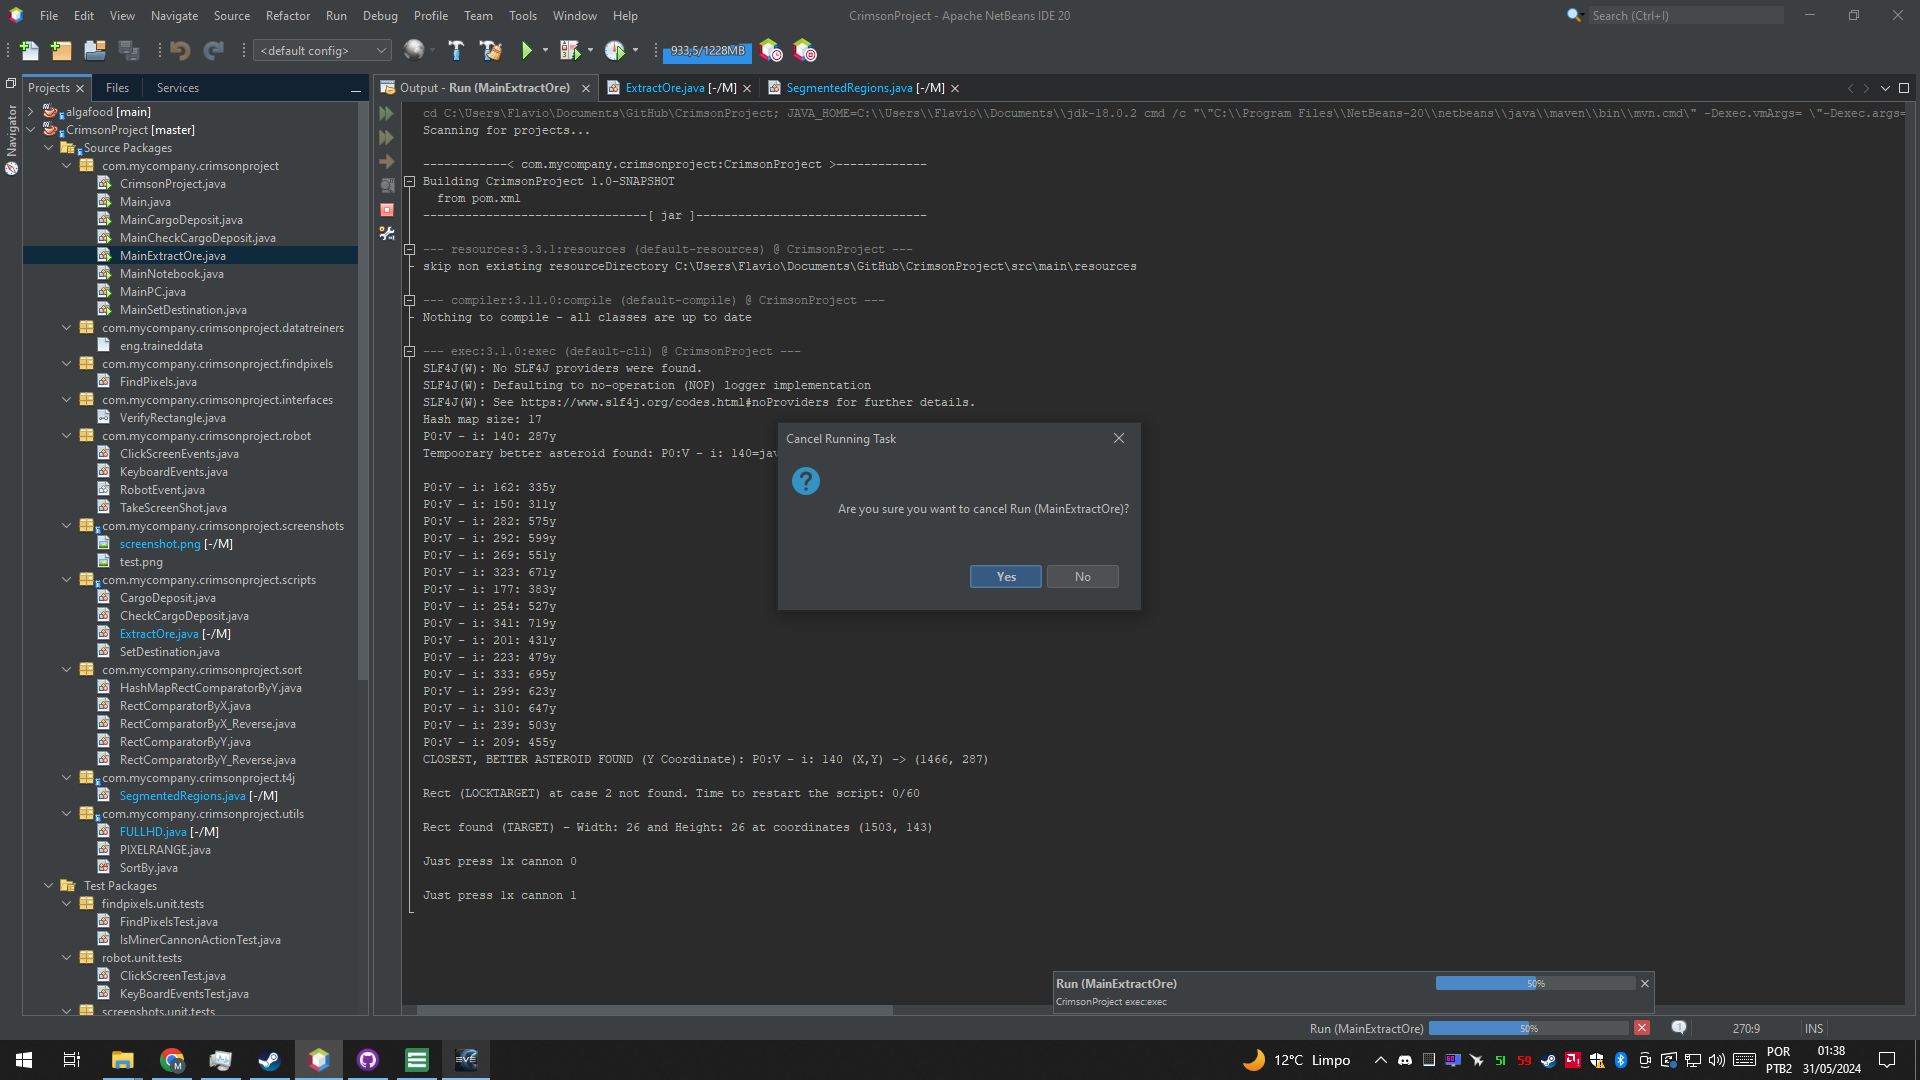
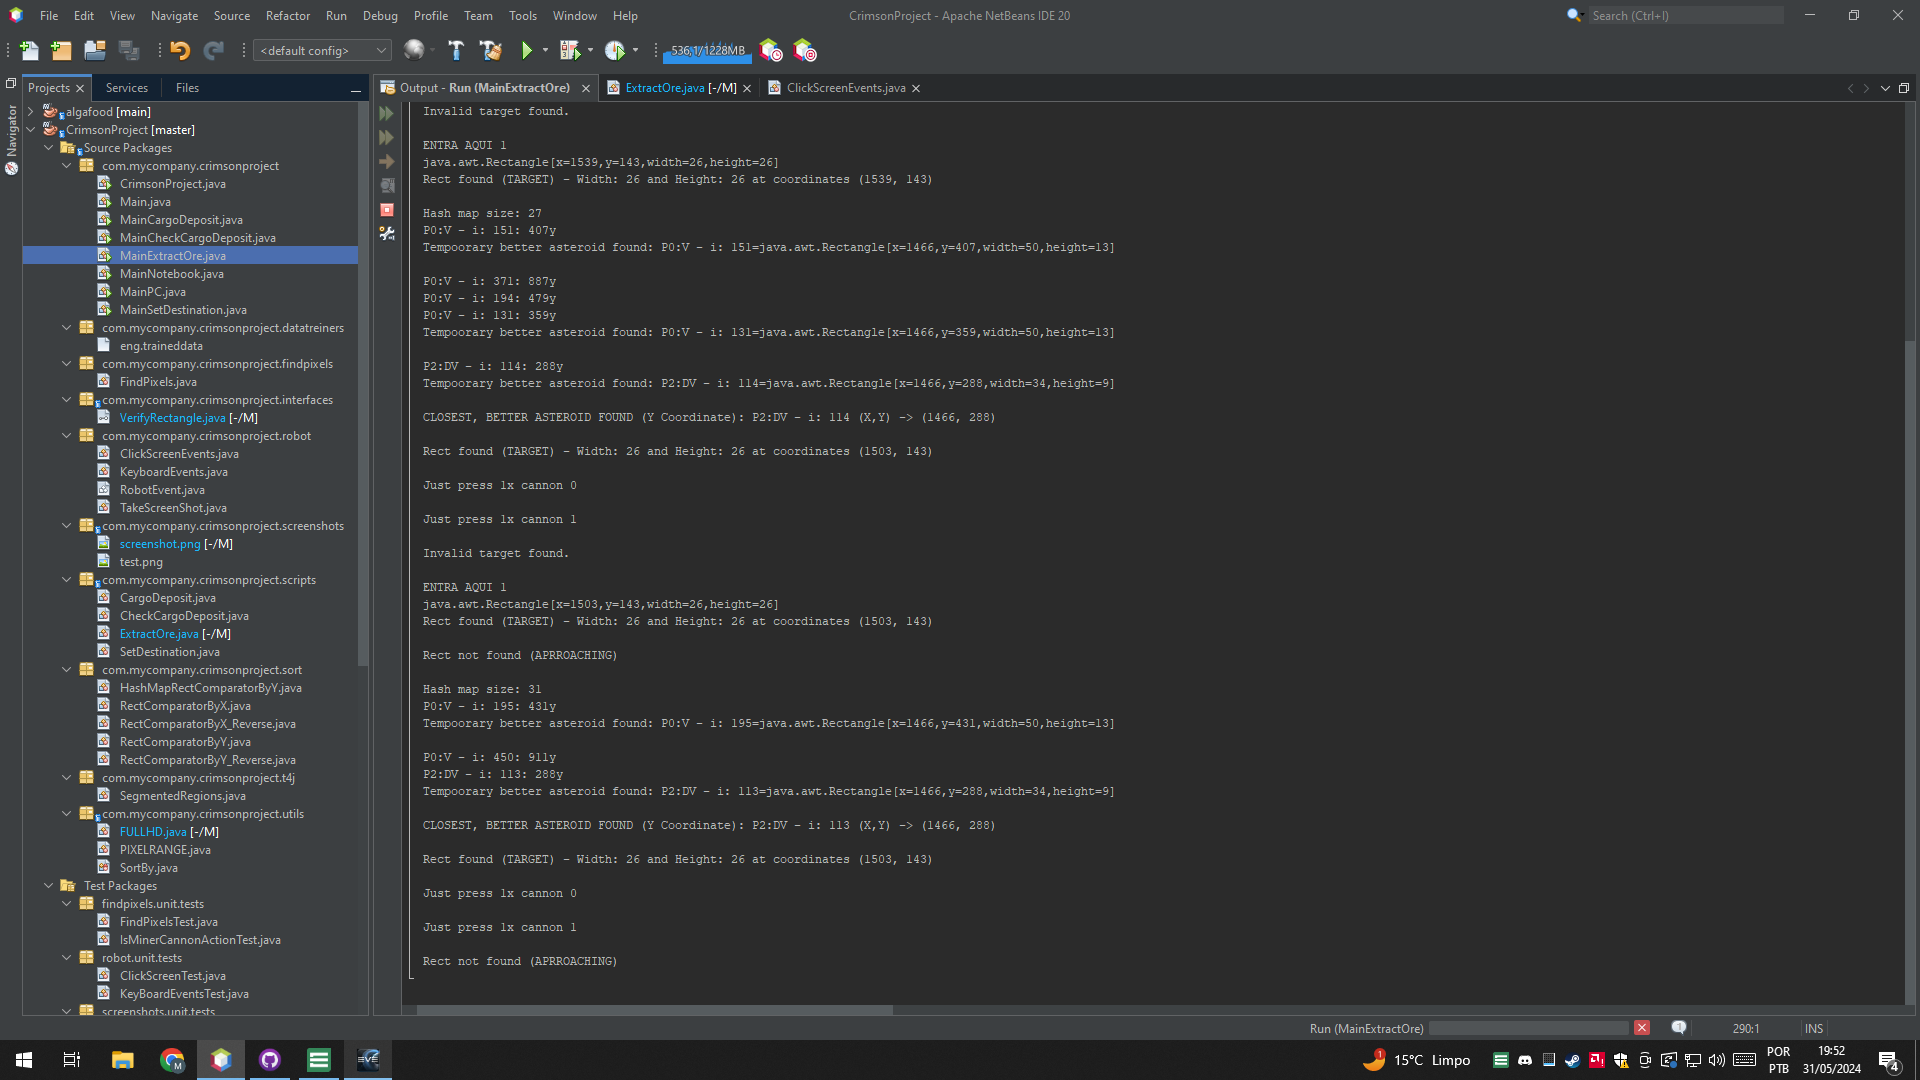
Aprimorando método  invalidTarget em ExtractOre
Agora é identificado a mensagem de target invalid. O target errado é untargetado e o script volta a procurar um target (asteroid) válido

diff --git a/src/main/java/com/mycompany/crimsonproject/utils/FULLHD.java b/src/main/java/com/mycompany/crimsonproject/utils/FULLHD.java
@@ -18,17 +18,29 @@ import org.javatuples.Quartet;
  * Pixel's amount to add in the BLOCKSCREEN for caution or not
  */
 public class FULLHD {
-    
-    public final List<Pair<Integer, Integer>> listInformation = Arrays.asList(new Pair<>(INFORMATION_W1, INFORMATION_H1));
+
+    public final List<Pair<Integer, Integer>> listLostConnection = Arrays.asList(
+            new Pair<>(LOSTCONNECTION_W1, LOSTCONNECTION_H1),
+            new Pair<>(LOSTCONNECTION_W2, LOSTCONNECTION_H1));
+    public static final int LOSTCONNECTION_W1 = 98;
+    public static final int LOSTCONNECTION_W2 = 97;
+    public static final int LOSTCONNECTION_H1 = 17;
+
+    public final List<Pair<Integer, Integer>> listInformation = Arrays.asList(
+            new Pair<>(INFORMATION_W1, INFORMATION_H1));
     public static final int INFORMATION_W1 = 106;
     public static final int INFORMATION_H1 = 17;
 
-    public final List<Pair<Integer, Integer>> listMiningBotWxH = Arrays.asList(new Pair<>(MININGBOT1_W1, MININGBOT1_H1), new Pair<>(MININGBOT1_W2, MININGBOT1_H1));
+    public final List<Pair<Integer, Integer>> listMiningBotWxH = Arrays.asList(
+            new Pair<>(MININGBOT1_W1, MININGBOT1_H1), 
+            new Pair<>(MININGBOT1_W2, MININGBOT1_H1));
     public static final int MININGBOT1_W1 = 60;
     public static final int MININGBOT1_W2 = 59;
     public static final int MININGBOT1_H1 = 9;
 
-    public final List<Pair<Integer, Integer>> listHomeStationWxH = Arrays.asList(new Pair<>(HOMESTATION1_W1, HOMESTATION1_H1), new Pair<>(HOMESTATION1_W2, HOMESTATION1_H1));
+    public final List<Pair<Integer, Integer>> listHomeStationWxH = Arrays.asList(
+            new Pair<>(HOMESTATION1_W1, HOMESTATION1_H1), 
+            new Pair<>(HOMESTATION1_W2, HOMESTATION1_H1));
     public static final int HOMESTATION1_W1 = 75;
     public static final int HOMESTATION1_W2 = 74;
     public static final int HOMESTATION1_H1 = 9;
@@ -79,7 +91,7 @@ public class FULLHD {
     public static final int BLOCLDOCK_H3 = 12;
 
     public final List<Pair<Integer, Integer>> listHangarWxH = Arrays.asList(
-            new Pair<>(HANGAR_W1, HANGAR_H1), 
+            new Pair<>(HANGAR_W1, HANGAR_H1),
             new Pair<>(HANGAR_W1, HANGAR_H2));
     public static final int HANGAR_W1 = 40;
     public static final int HANGAR_H1 = 12;
@@ -90,7 +102,7 @@ public class FULLHD {
     public static final int CLOSELOCATIONBUTTON_W1 = 10;
     public static final int CLOSELOCATIONBUTTON_H1 = 10;
 
-    public final Quartet<Integer, Integer, Integer, Integer> tupleLocationTabDeadZone 
+    public final Quartet<Integer, Integer, Integer, Integer> tupleLocationTabDeadZone
             = new Quartet<>(LOCATIONTAB_DEADZONE_X1, LOCATIONTAB_DEADZONE_X2_W, LOCATIONTAB_DEADZONE_Y1, LOCATIONTAB_DEADZONE_Y2_H);
     public static final int LOCATIONTAB_DEADZONE_X1 = 445;
     public static final int LOCATIONTAB_DEADZONE_X2_W = 889;
@@ -116,10 +128,10 @@ public class FULLHD {
             new Pair<>(VELDSPAR_W1, VELDSPAR_H1),
             new Pair<>(VELDSPAR_W2, VELDSPAR_H1),
             new Pair<>(VELDSPAR_W3, VELDSPAR_H2));
-    
+
     // Priority 1: (62, 9); (61, 9)
     public final List<Pair<Integer, Integer>> listCondensedScordite = Arrays.asList(
-            new Pair<>(CONDENSED_W1, CONDENSED_H1), 
+            new Pair<>(CONDENSED_W1, CONDENSED_H1),
             new Pair<>(CONDENSED_W2, CONDENSED_H1));
     public static final int CONDENSED_W1 = 62;
     public static final int CONDENSED_W2 = 61;
@@ -127,7 +139,7 @@ public class FULLHD {
 
     // Priority 2: (42,9); (42,10)
     public final List<Pair<Integer, Integer>> listScordite = Arrays.asList(
-            new Pair<>(SCORDITE_W1, SCORDITE_H1), 
+            new Pair<>(SCORDITE_W1, SCORDITE_H1),
             new Pair<>(SCORDITE_W1, SCORDITE_H2));
     public static final int SCORDITE_W1 = 42;
     public static final int SCORDITE_H1 = 9;
@@ -135,7 +147,7 @@ public class FULLHD {
 
     // Priotity 3: (34, 9); (33, 9)
     public final List<Pair<Integer, Integer>> listDenseVeldspar = Arrays.asList(
-            new Pair<>(DENSE_W1, DENSE_H1), 
+            new Pair<>(DENSE_W1, DENSE_H1),
             new Pair<>(DENSE_W2, DENSE_H1));
     public static final int DENSE_W1 = 34;
     public static final int DENSE_W2 = 33;
@@ -143,7 +155,7 @@ public class FULLHD {
 
     // Priority 4: (73, 10); (72, 10); (72, 9); (71, 9)
     public final List<Pair<Integer, Integer>> listConcentratedVeldspar = Arrays.asList(
-            new Pair<>(CONCENTRATED_W1, CONCENTRATED_H1), 
+            new Pair<>(CONCENTRATED_W1, CONCENTRATED_H1),
             new Pair<>(CONCENTRATED_W2, CONCENTRATED_H1),
             new Pair<>(CONCENTRATED_W2, CONCENTRATED_H2),
             new Pair<>(CONCENTRATED_W3, CONCENTRATED_H2));
@@ -155,7 +167,7 @@ public class FULLHD {
 
     // Priority 5: (50, 13); (49, 13); (48, 12)
     public final List<Pair<Integer, Integer>> listVeldspar = Arrays.asList(
-            new Pair<>(VELDSPAR_W1, VELDSPAR_H1), 
+            new Pair<>(VELDSPAR_W1, VELDSPAR_H1),
             new Pair<>(VELDSPAR_W2, VELDSPAR_H1),
             new Pair<>(VELDSPAR_W3, VELDSPAR_H2));
     public static final int VELDSPAR_W1 = 50;
@@ -184,15 +196,15 @@ public class FULLHD {
     /* ------------------------------------------------------------- */
 
     public final List<Pair<Integer, Integer>> listMaxCargoWxH = Arrays.asList(
-            new Pair<>(MAXCARGO1_W1, MAXCARGO1_H1), 
+            new Pair<>(MAXCARGO1_W1, MAXCARGO1_H1),
             new Pair<>(MAXCARGO1_W2, MAXCARGO1_H1));
     public static final int MAXCARGO1_W1 = 111;
     public static final int MAXCARGO1_W2 = 110;
     public static final int MAXCARGO1_H1 = 24;
 
     public final List<Pair<Integer, Integer>> listMinCargoWxH = Arrays.asList(
-            new Pair<>(MINGCARGO_WITHM3_W1, MINGCARGO_H1), 
-            new Pair<>(MINGCARGO_WITHOUTM3_W1, MINGCARGO_H1), 
+            new Pair<>(MINGCARGO_WITHM3_W1, MINGCARGO_H1),
+            new Pair<>(MINGCARGO_WITHOUTM3_W1, MINGCARGO_H1),
             new Pair<>(MINGCARGO_WITHOUTM3_W1, MINGCARGO_H2));
     public static final int MINGCARGO_WITHM3_W1 = 72;
     public static final int MINGCARGO_WITHOUTM3_W1 = 51;
@@ -231,7 +243,7 @@ public class FULLHD {
     /* ------------------------------------------------------------- */
 
     public final List<Pair<Integer, Integer>> listUndockButtonWxH = Arrays.asList(
-            new Pair<>(UNDOCK_BUTTON_W1, UNDOCK_BUTTON_H1), 
+            new Pair<>(UNDOCK_BUTTON_W1, UNDOCK_BUTTON_H1),
             new Pair<>(UNDOCK_BUTTON_W2, UNDOCK_BUTTON_H1));
     public static final int UNDOCK_BUTTON_W1 = 235;
     public static final int UNDOCK_BUTTON_W2 = 234;

diff --git a/src/main/java/com/mycompany/crimsonproject/scripts/ExtractOre.java b/src/main/java/com/mycompany/crimsonproject/scripts/ExtractOre.java
@@ -19,6 +19,7 @@ import java.util.Map;
 import java.util.Map.Entry;
 import net.sourceforge.tess4j.TesseractException;
 import org.javatuples.Triplet;
+import org.javatuples.Pair;
 
 /**
  *
@@ -50,7 +51,7 @@ public class ExtractOre implements VerifyRectangle {
     /* These lists must be ordered by priority, from highest to lowest to get the closest and better ore possible */
     private final List<Integer> priorityList = Arrays.asList(Vpriority, CVpriority, DVpriority, Spriority, CSpriority);
 
-    public void startScript() throws IOException, TesseractException, AWTException, InterruptedException {
+    public boolean startScript() throws IOException, TesseractException, AWTException, InterruptedException {
 
         new KeyboardEvents().pressKey(KeyEvent.VK_F3); // afterburner
         this.timeStart2 = System.currentTimeMillis();
@@ -58,8 +59,7 @@ public class ExtractOre implements VerifyRectangle {
         while (this.amountRect < SWITCHFLAG) {
 
             new TakeScreenShot().take();
-            this.verifyInvalidTarget();
-            // Todo connection lost
+            this.verifyInvalidTarget(new FULLHD().listInformation, 195, "Invalid target found.");
 
             switch (this.amountRect) {
 
@@ -162,6 +162,8 @@ public class ExtractOre implements VerifyRectangle {
 
         } // end while
 
+        return true;
+
     }
 
     private boolean getAsteroids() throws IOException, TesseractException, AWTException, InterruptedException {
@@ -234,6 +236,7 @@ public class ExtractOre implements VerifyRectangle {
 
     @Override
     public boolean verifyRectangle(Rectangle rectangle, String itemName, int chosenClick) throws AWTException, InterruptedException {
+
         if (rectangle != null) {
             System.out.printf("Rect found (%s) - Width: %d and Height: %d at coordinates (%d, %d)\n\n", itemName, rectangle.width, rectangle.height, rectangle.x, rectangle.y);
             return true;
@@ -274,15 +277,32 @@ public class ExtractOre implements VerifyRectangle {
         return false;
     }
 
-    private void verifyInvalidTarget() throws IOException, TesseractException, AWTException, InterruptedException {
-        int moe = 195;
+    public void verifyInvalidTarget(List<Pair<Integer, Integer>> listWxHrects, int moe, String msg) throws IOException, TesseractException, AWTException, InterruptedException {
+        boolean isClicked = false;
 
         try {
-            Rectangle rect = new SegmentedRegions().getRectangle(new FULLHD().listInformation);
+            Rectangle rect = new SegmentedRegions().getRectangle(listWxHrects);
             rect.y += moe;
             new ClickScreenEvents().leftClickCenterButton(rect);
-            System.out.println("Invalid target found.\n");
+            System.out.println(msg + "\n");
+            isClicked = true;
         } catch (NullPointerException ex) {
+        }
+
+        if (isClicked) {
+            boolean isIdentified = true;
+            
+            while (isIdentified) {
+                Rectangle target = new SegmentedRegions().getRectangle(new FULLHD().listLockTarget, new FULLHD().tupleLockTargetDeadZone);
+
+                if (this.verifyRectangle(target, "TARGET", 0)) {
+                    new ClickScreenEvents().leftClickCenterButton(target);
+                    isIdentified = false;
+                } else {
+                    new ClickScreenEvents().dragScreen();
+                }
+            }
+
         }
 
     }

diff --git a/src/main/java/com/mycompany/crimsonproject/interfaces/VerifyRectangle.java b/src/main/java/com/mycompany/crimsonproject/interfaces/VerifyRectangle.java
@@ -8,6 +8,5 @@ import java.awt.Rectangle;
  * @author Devmachine
  */
 public interface VerifyRectangle {
-
     boolean verifyRectangle(Rectangle rectangle, String itemName, int chosenClick) throws AWTException, InterruptedException;
 }
